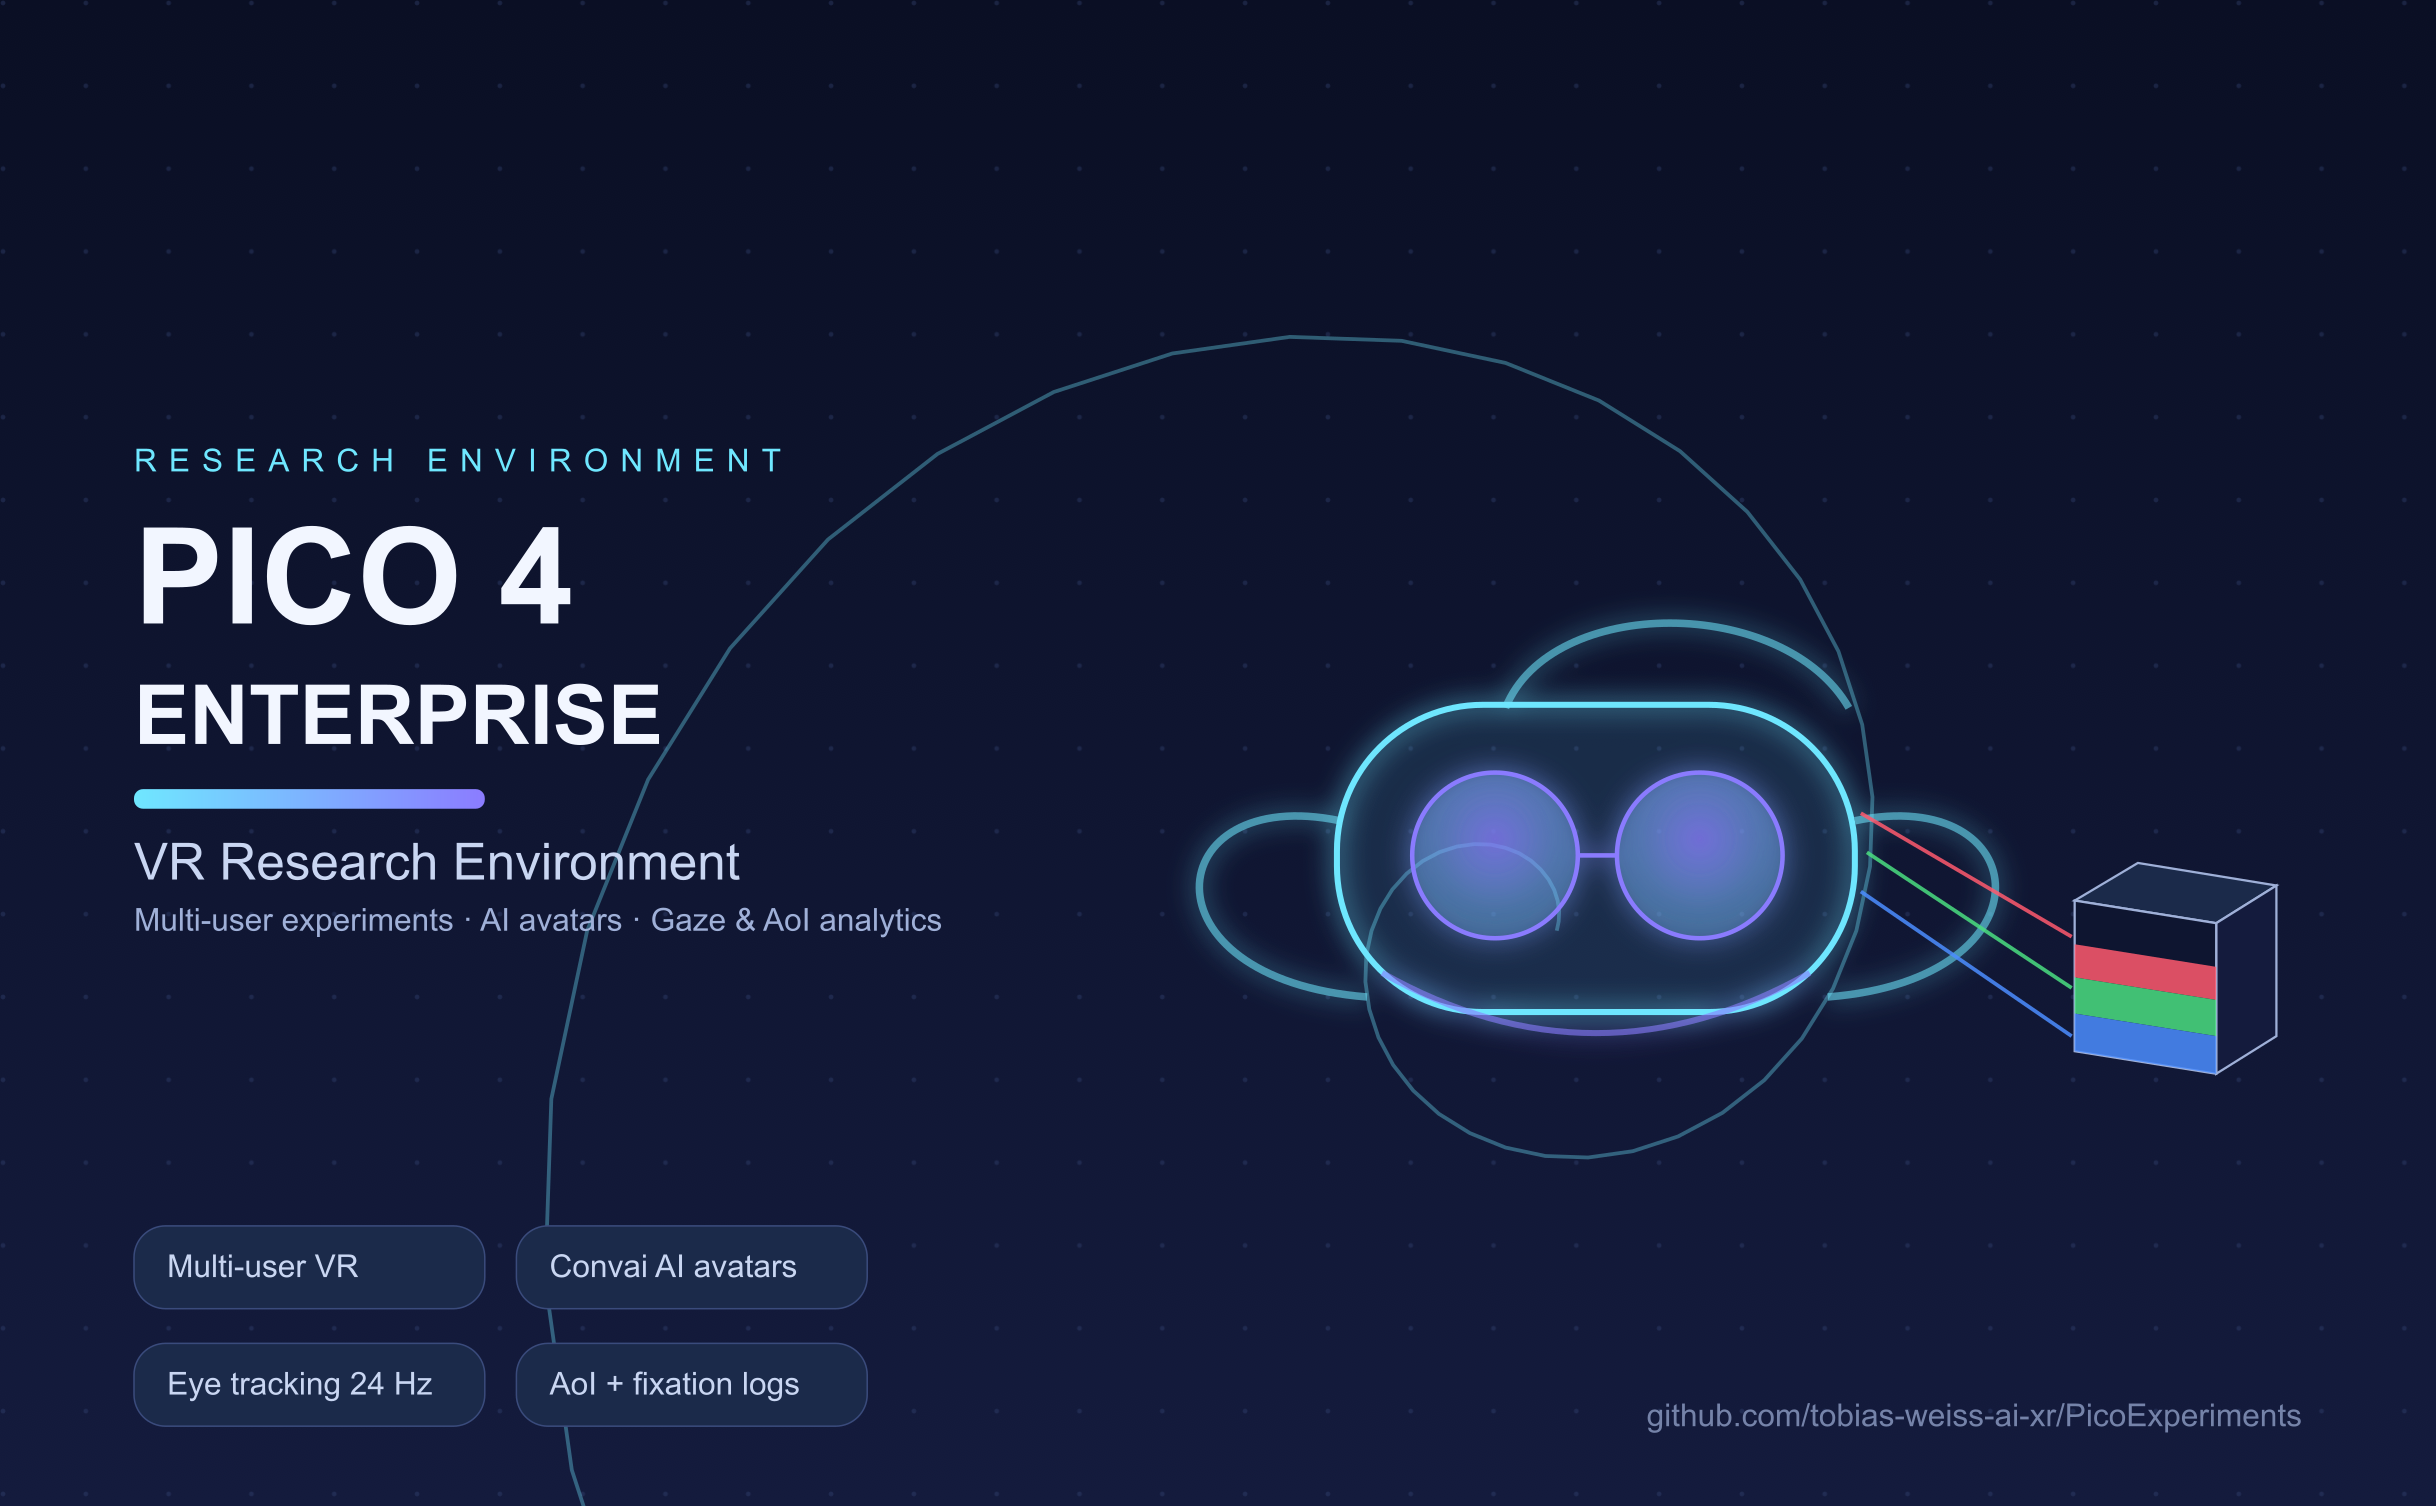
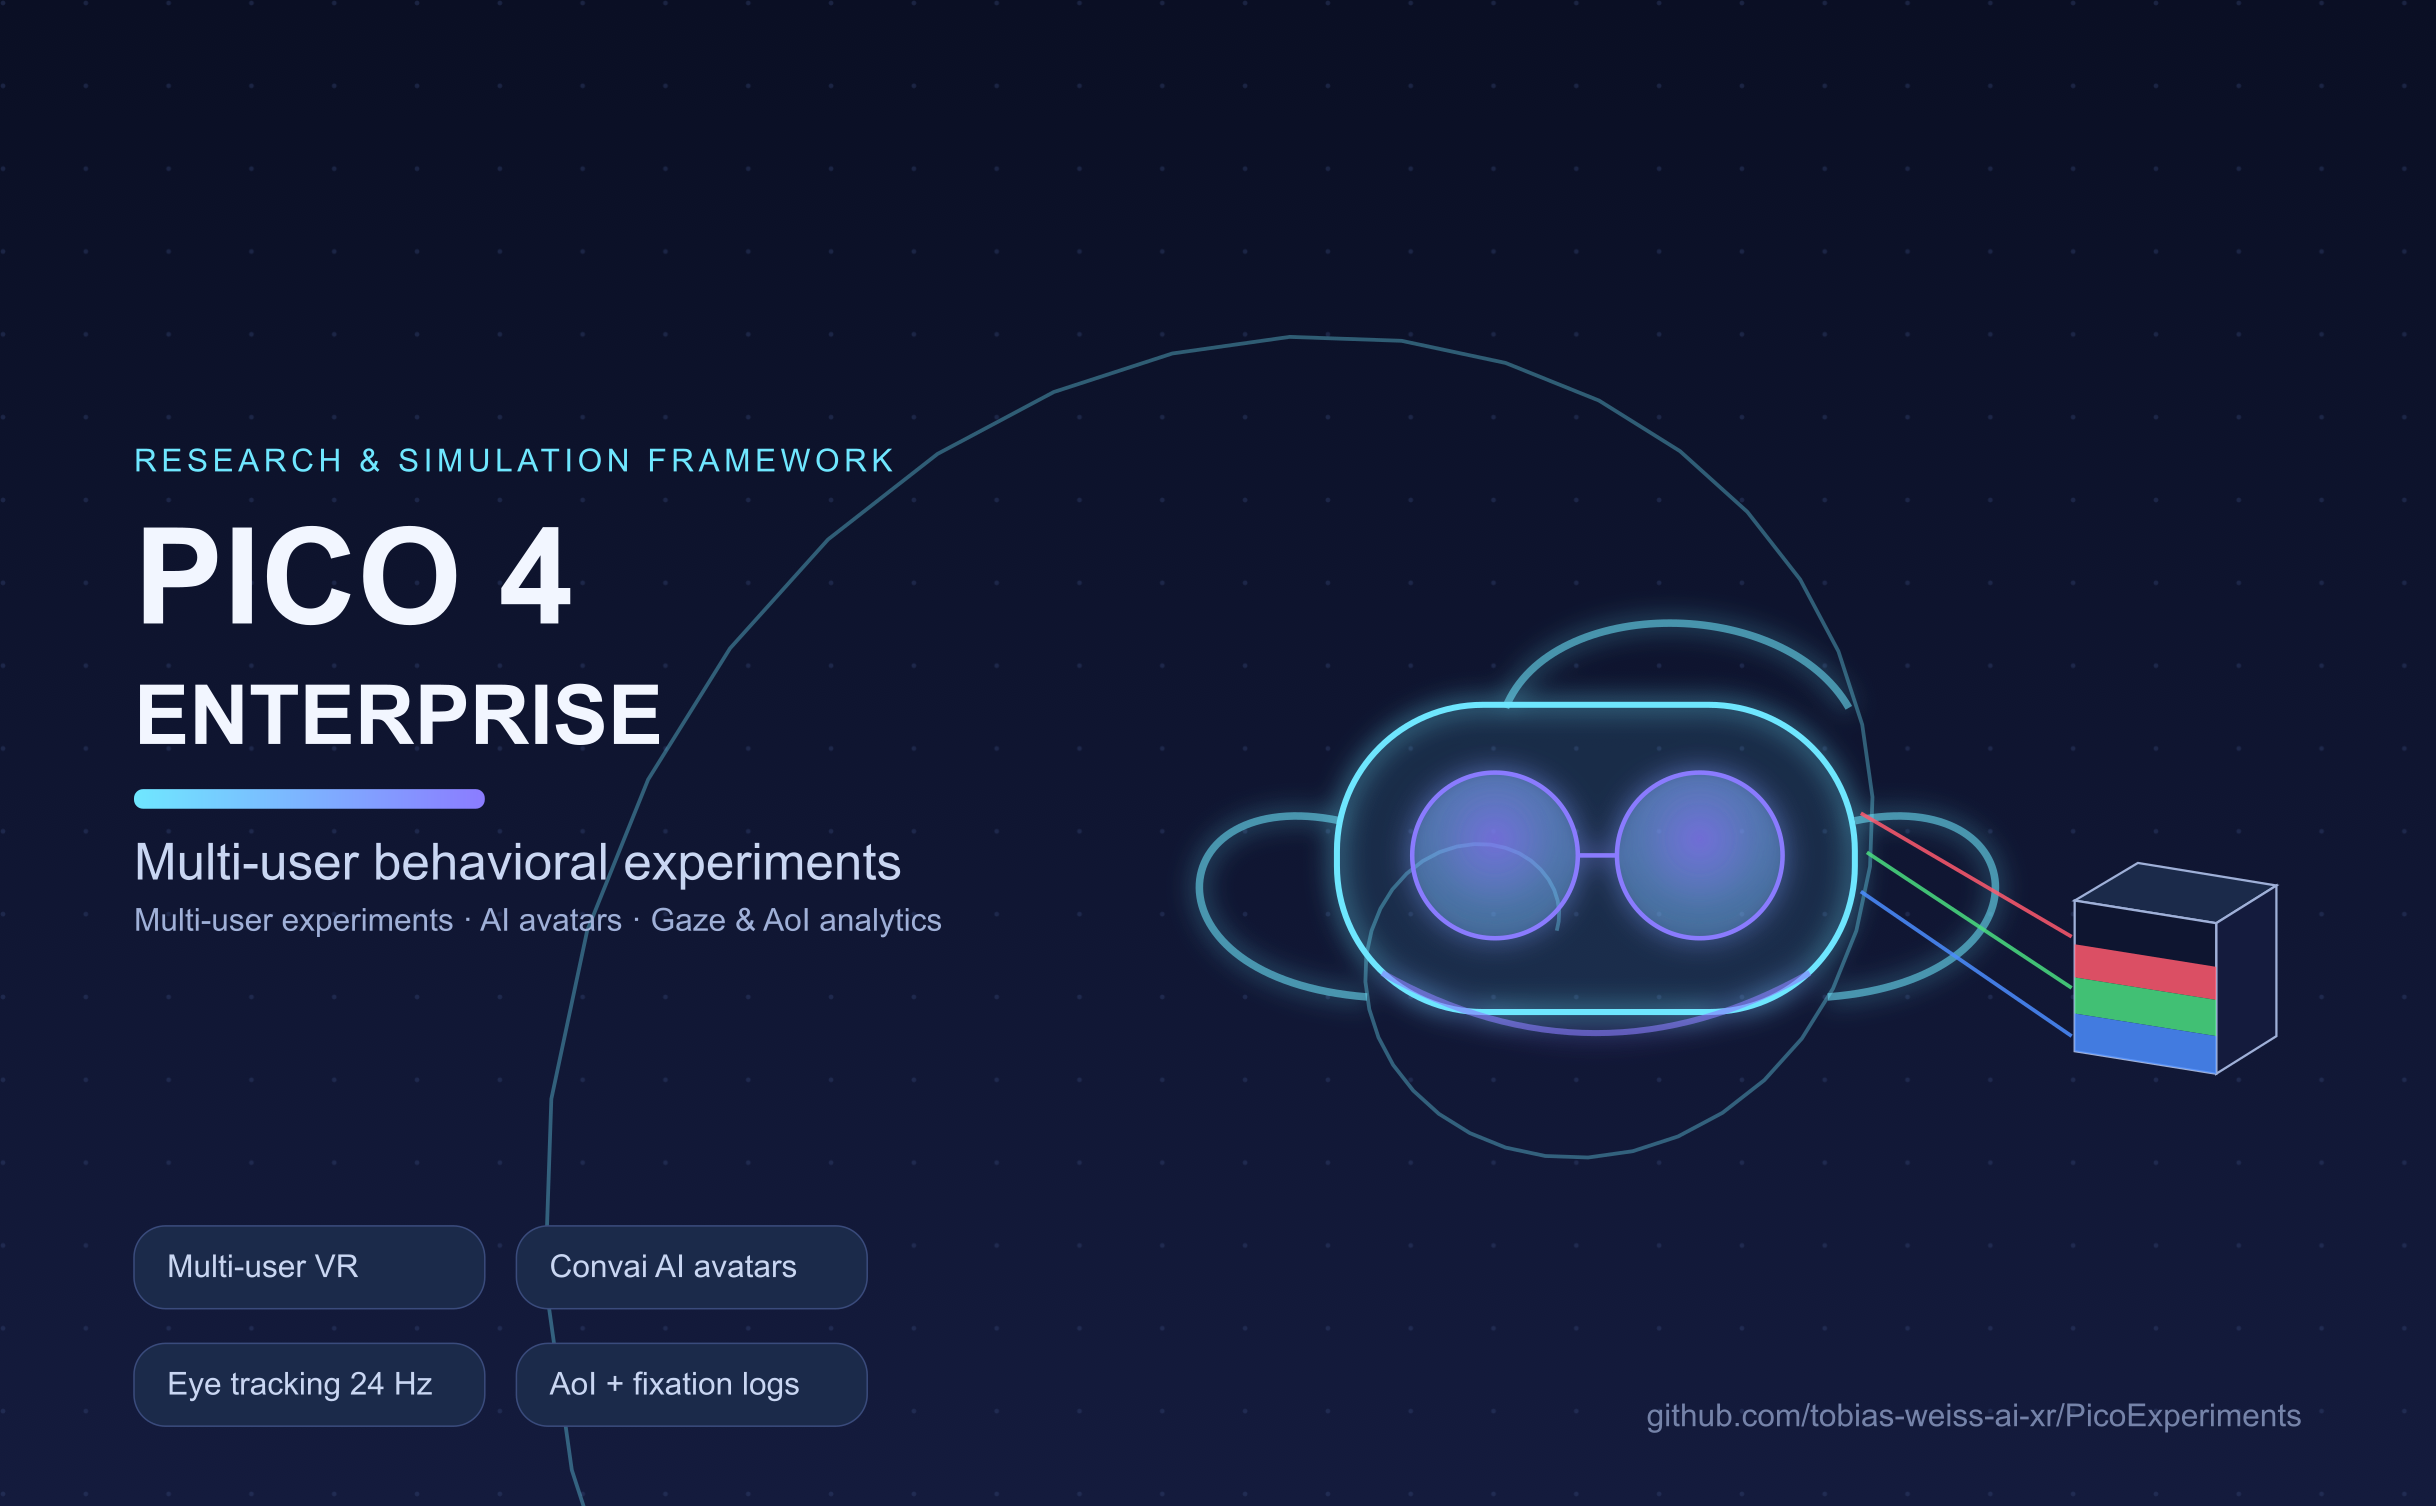
docs: reframe project as research and simulation framework
README title, intro and section headers reframed; poster eyebrow and
subtitle now read 'Research & Simulation Framework' / 'Multi-user
behavioral experiments'. PNG re-exported.

Changed region(s): [[0.0312, 0.5618, 0.3744, 0.593], [0.0624, 0.2809, 0.3744, 0.3121]]

diff --git a/README.md b/README.md
@@ -1,13 +1,13 @@
-# PICO 4 Enterprise VR Research Environment
+# PICO 4 Enterprise VR Research & Simulation Framework
 
-A research environment for behavioral experiments on the PICO 4 Enterprise HMD:
-multi-user VR scenes, AI avatars, and integrated data logging for gaze, areas of
-interest, and user interaction.
+A research and simulation framework for behavioral experiments on the PICO 4
+Enterprise HMD: multi-user VR scenes, AI avatars, and integrated data logging
+for gaze, areas of interest, and user interaction.
 
 ![poster](img/poster.png)
 ![img/menu.png](img/menu.png)
 
-## Key capabilities
+## Framework capabilities
 
 - **Multi-user VR** (Normcore): shared avatars, synchronized dashboards and shop
   interactions (checkout UI, doors, spawnable objects)
@@ -25,7 +25,7 @@ interest, and user interaction.
 - **Desktop testing**: StarterAssets first-person rig runs the scenes in the
   editor without a headset
 
-## Demo scenes
+## Simulation & experiment scenes
 
 - `00_Menu` — main menu / lobby
 - `Supermarket` — multi-user shopping environment with AI agent
